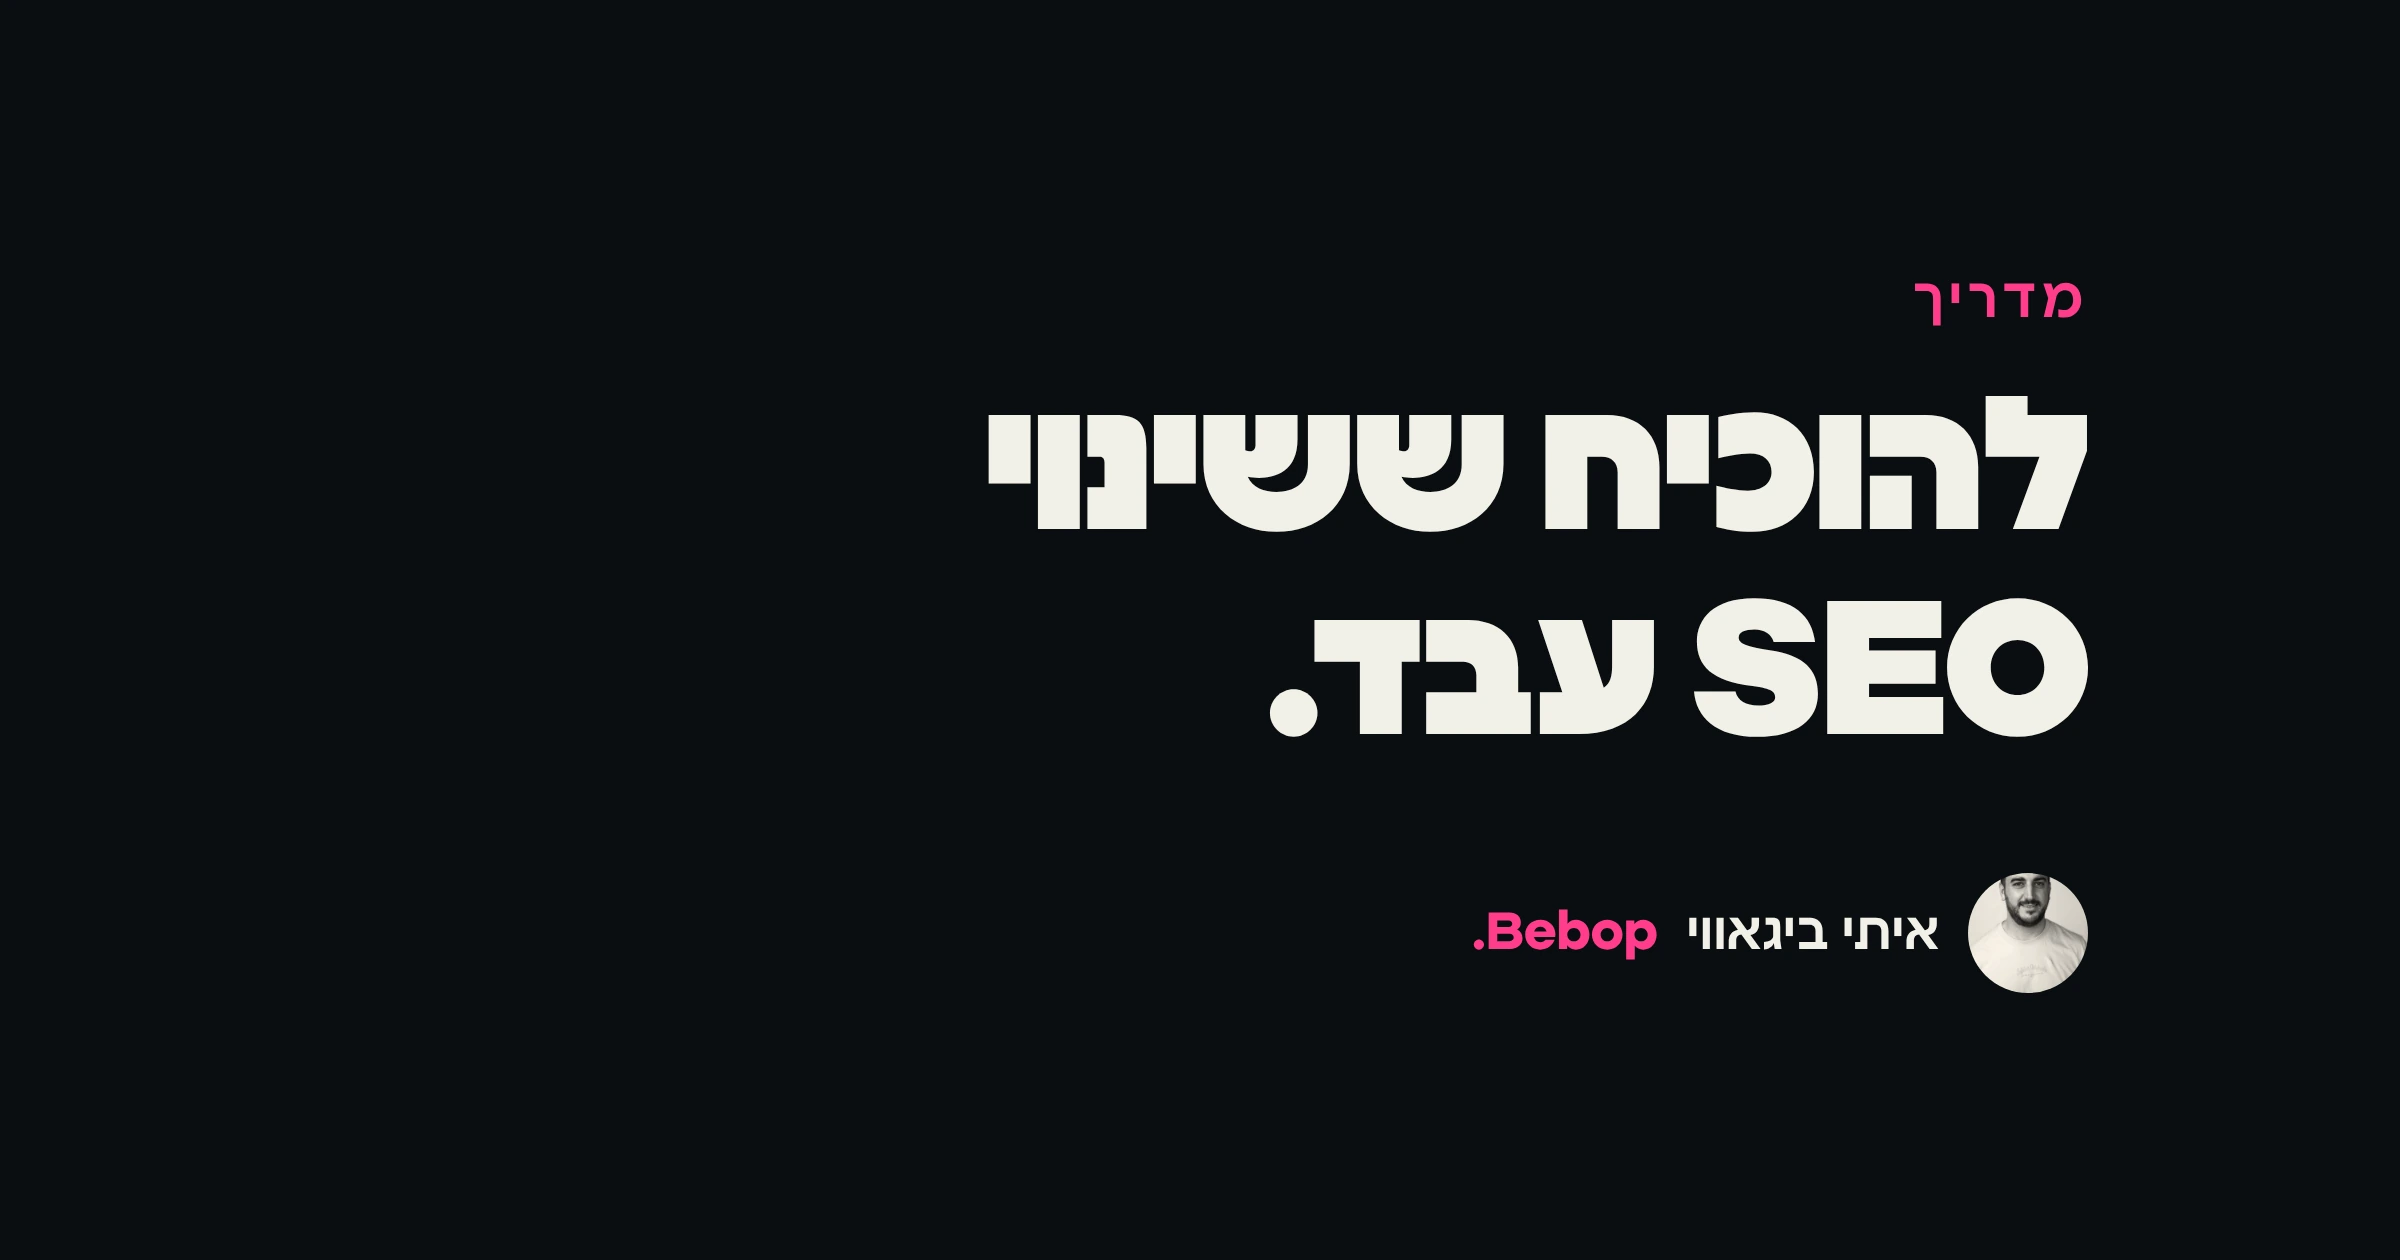
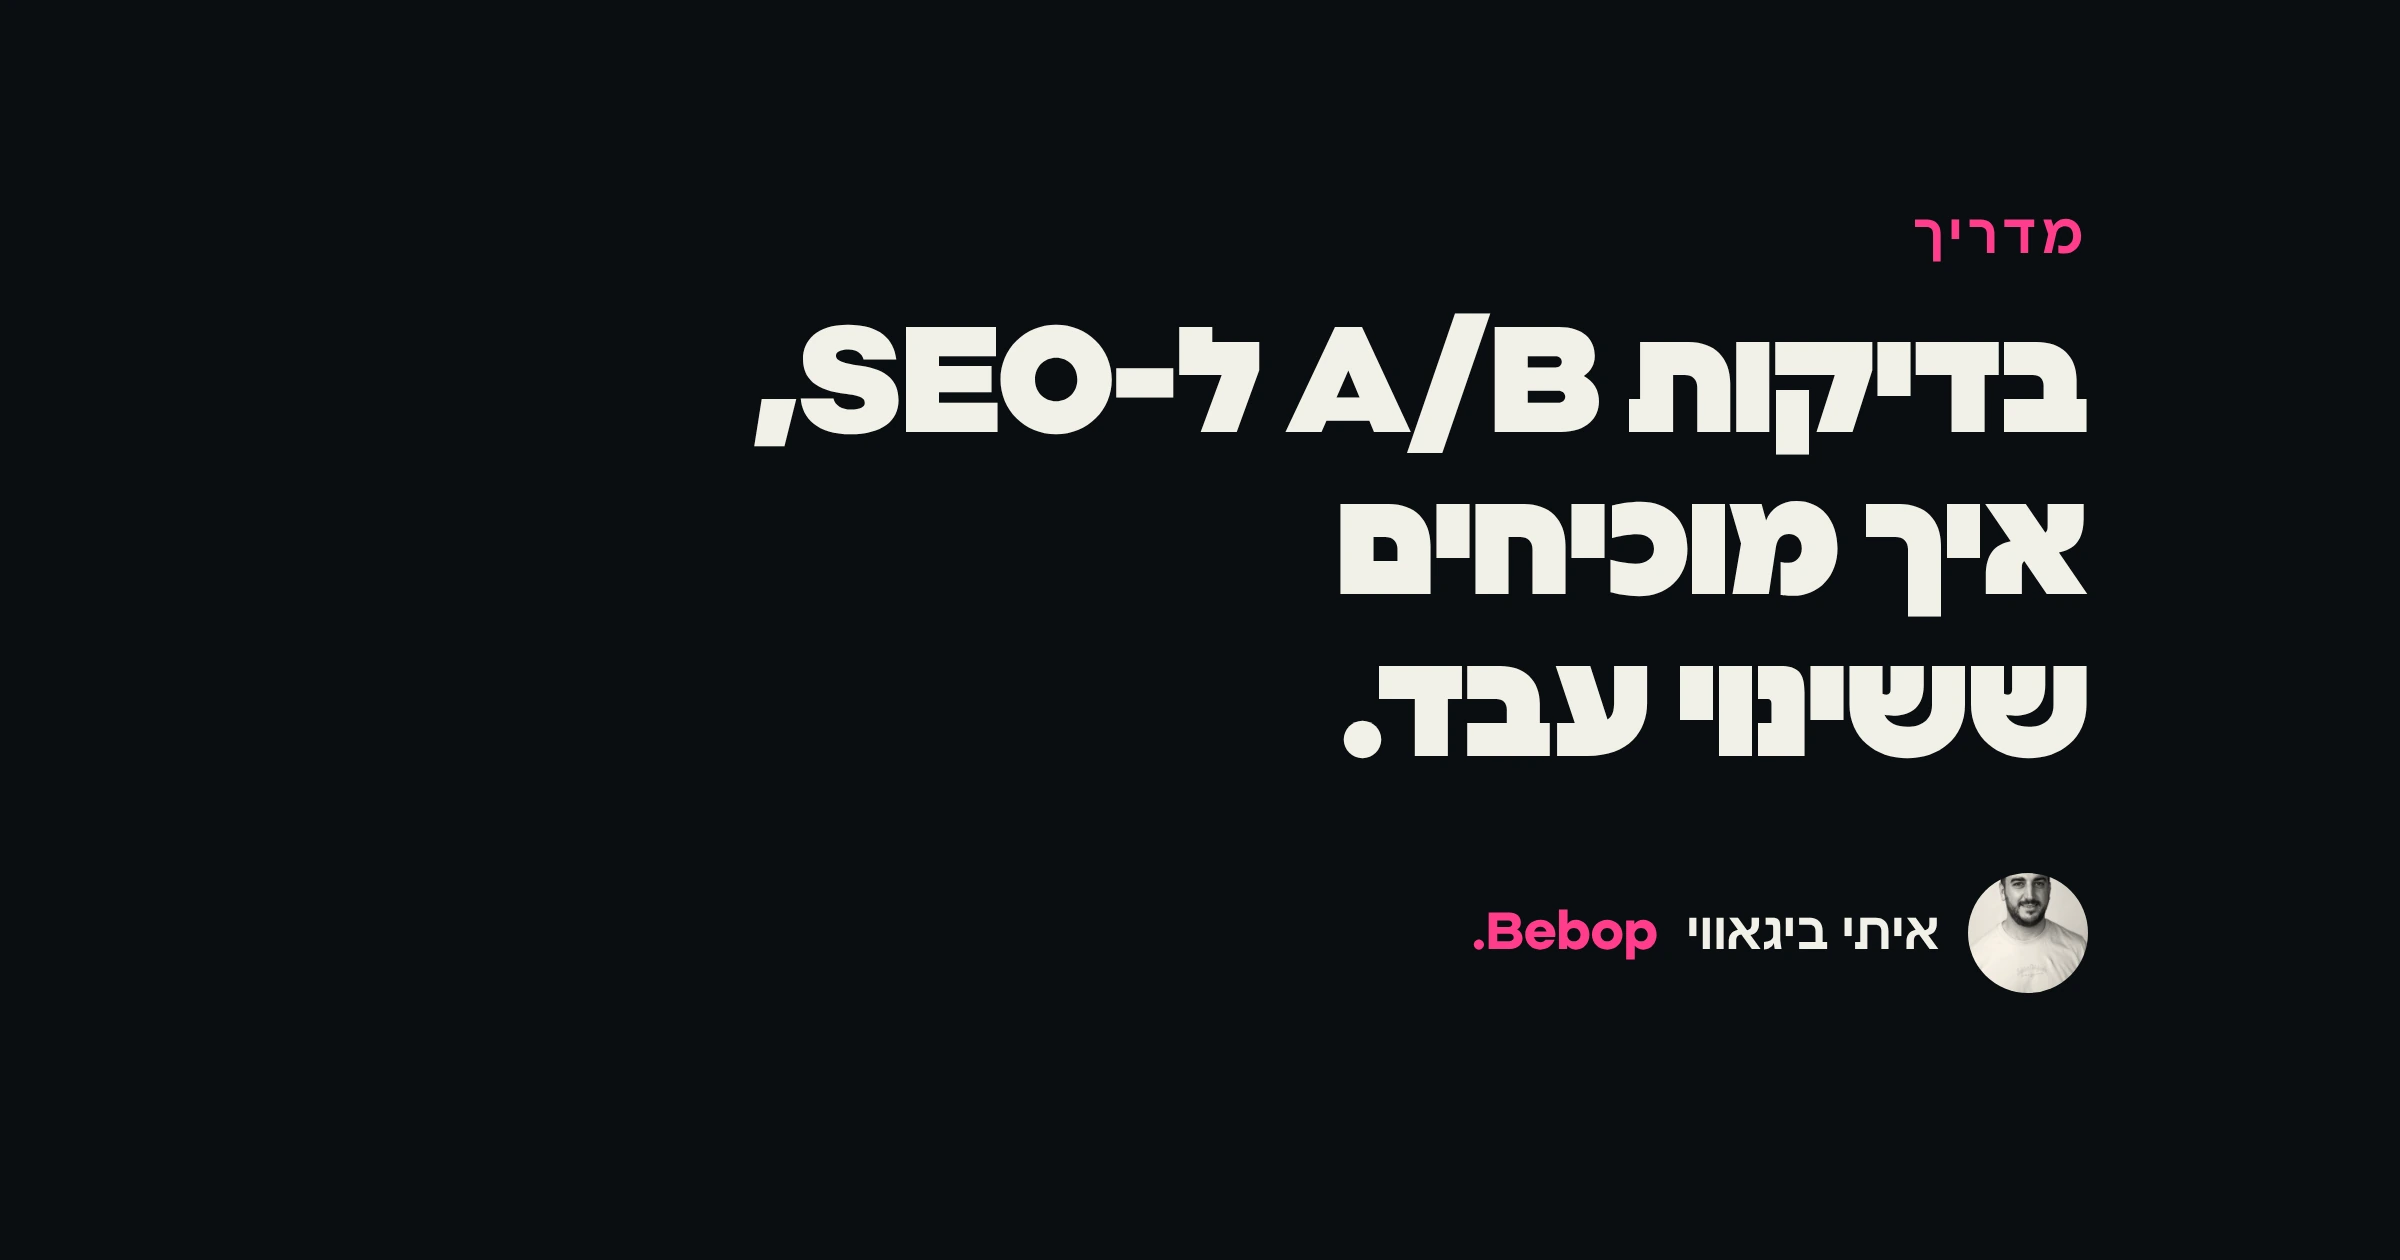
Rename the article to the approved title and rebuild the hero
The article is now titled as an SEO A/B testing guide for 2027. The
hero title card, OG image, alt text, Rank Math title and focus keyword
follow the new title, and the intro ties the A/B term to split testing
so the body stays consistent with it.

Claude-Session: https://claude.ai/code/session_01XxQQK9KzeG4kSDzRDdzX3V

Changed region(s): [[0.3125, 0.1548, 0.875, 0.619]]

diff --git a/output/bebop-articles/seo-split-testing/wp-content.html b/output/bebop-articles/seo-split-testing/wp-content.html
@@ -8,7 +8,7 @@
 <li>גרף של לפני ואחרי מראה שמשהו השתנה, לא מה גרם לשינוי. השאלה הנכונה היא בכמה התנועה עלתה מעבר למה שהיה קורה בלי השינוי.</li>
 <!-- /wp:list-item -->
 <!-- wp:list-item -->
-<li>בדיקת ספליט ב-SEO מחלקת עמודים ולא גולשים. חלק מהעמודים באותה תבנית מקבלים את השינוי, והשאר נשארים כקבוצת ביקורת.</li>
+<li>בדיקת A/B ל-SEO, או בדיקת ספליט, מחלקת עמודים ולא גולשים. חלק מהעמודים באותה תבנית מקבלים את השינוי, והשאר נשארים כקבוצת ביקורת.</li>
 <!-- /wp:list-item -->
 <!-- wp:list-item -->
 <li>לפני שמתחילים כותבים דף אחד עם השערה, מדד ראשי, מדדי מגן, תאריך ניתוח וכלל החלטה.</li>
@@ -27,7 +27,7 @@
 <!-- /wp:paragraph -->
 
 <!-- wp:paragraph -->
-<p>בדיקת ספליט ב-SEO (SEO Split Testing) נועדה בדיוק לזה, והיא אחד הכלים שהופכים <a href="/services/seo">קידום אורגני</a> לערוץ שאפשר למדוד. במדריך נעבור על מה נחשב הוכחה, איך הבדיקה עובדת, איזו שיטה מתאימה לגודל האתר שלכם ואיך מציגים תוצאה שגם סמנכ"ל כספים יקבל. הבסיס הוא <a href="https://www.searchenginejournal.com/seo-split-testing-prove-change-worked/594529/" rel="nofollow noopener" target="_blank">מאמר של סופי ברנון ב-Search Engine Journal</a>, שותפה-מייסדת בסוכנות StudioHawk US, שעיבדנו לעברית ובדקנו מול המקורות של גוגל.</p>
+<p>בדיקת A/B ל-SEO, שנקראת גם בדיקת ספליט (SEO Split Testing), נועדה בדיוק לזה, והיא אחד הכלים שהופכים <a href="/services/seo">קידום אורגני</a> לערוץ שאפשר למדוד. במדריך נעבור על מה נחשב הוכחה, איך הבדיקה עובדת, איזו שיטה מתאימה לגודל האתר שלכם ואיך מציגים תוצאה שגם סמנכ"ל כספים יקבל. הבסיס הוא <a href="https://www.searchenginejournal.com/seo-split-testing-prove-change-worked/594529/" rel="nofollow noopener" target="_blank">מאמר של סופי ברנון ב-Search Engine Journal</a>, שותפה-מייסדת בסוכנות StudioHawk US, שעיבדנו לעברית ובדקנו מול המקורות של גוגל.</p>
 <!-- /wp:paragraph -->
 
 <!-- wp:heading -->
@@ -152,7 +152,7 @@
 <!-- /wp:heading -->
 
 <!-- wp:paragraph -->
-<p>בדיקת ספליט ב-SEO מחלקת עמודים במקום אנשים. מבלבלים אותה לעיתים קרובות עם בדיקות A/B של אופטימיזציית המרות (CRO), שמחלקות גולשים בין שתי גרסאות של אותו עמוד, אבל ב-SEO זה לא עובד.</p>
+<p>בדיקת ספליט ב-SEO מחלקת עמודים במקום אנשים. מבלבלים אותה לעיתים קרובות עם בדיקות A/B רגילות של אופטימיזציית המרות (CRO), שמחלקות גולשים בין שתי גרסאות של אותו עמוד, אבל ב-SEO זה לא עובד.</p>
 <!-- /wp:paragraph -->
 
 <!-- wp:paragraph -->

diff --git a/output/bebop-articles/seo-split-testing/article.md b/output/bebop-articles/seo-split-testing/article.md
@@ -1,15 +1,15 @@
-# בדיקות ספליט ב-SEO, איך מוכיחים ששינוי באתר באמת עבד
+# בדיקות A/B ל-SEO ב-2027, איך מוכיחים ששינוי באמת עבד
 
-![כרטיס כותרת של המאמר, להוכיח ששינוי SEO עבד, מאת איתי ביגאווי](./hero.png)
+![כרטיס כותרת של המאמר, בדיקות A/B ל-SEO, איך מוכיחים ששינוי עבד, מאת איתי ביגאווי](./hero.png)
 
 שיניתם את הכותרות בעמודי המוצר במרץ, באפריל ההקלקות עלו, וכולם בחדר הנהנו. ואז מישהו מההנהלה שאל איך אתם יודעים שזה לא פשוט גוגל. גרף של לפני ואחרי לא עונה על השאלה הזאת, כי עדכוני ליבה, עונתיות ותשובות ה-AI של גוגל מזיזים את התנועה גם כשאף אחד לא נוגע באתר.
 
-בדיקת ספליט ב-SEO (SEO Split Testing) נועדה בדיוק לזה, והיא אחד הכלים שהופכים [קידום אורגני](/services/seo) לערוץ שאפשר למדוד. במדריך נעבור על מה נחשב הוכחה, איך הבדיקה עובדת, איזו שיטה מתאימה לגודל האתר שלכם ואיך מציגים תוצאה שגם סמנכ"ל כספים יקבל. הבסיס הוא [מאמר של סופי ברנון ב-Search Engine Journal](https://www.searchenginejournal.com/seo-split-testing-prove-change-worked/594529/), שותפה-מייסדת בסוכנות StudioHawk US, שעיבדנו לעברית ובדקנו מול המקורות של גוגל.
+בדיקת A/B ל-SEO, שנקראת גם בדיקת ספליט (SEO Split Testing), נועדה בדיוק לזה, והיא אחד הכלים שהופכים [קידום אורגני](/services/seo) לערוץ שאפשר למדוד. במדריך נעבור על מה נחשב הוכחה, איך הבדיקה עובדת, איזו שיטה מתאימה לגודל האתר שלכם ואיך מציגים תוצאה שגם סמנכ"ל כספים יקבל. הבסיס הוא [מאמר של סופי ברנון ב-Search Engine Journal](https://www.searchenginejournal.com/seo-split-testing-prove-change-worked/594529/), שותפה-מייסדת בסוכנות StudioHawk US, שעיבדנו לעברית ובדקנו מול המקורות של גוגל.
 
 ## בקצרה — הנקודות החשובות
 
 - גרף של לפני ואחרי מראה שמשהו השתנה, לא מה גרם לשינוי. השאלה הנכונה היא בכמה התנועה עלתה מעבר למה שהיה קורה בלי השינוי.
-- בדיקת ספליט ב-SEO מחלקת עמודים ולא גולשים. חלק מהעמודים באותה תבנית מקבלים את השינוי, והשאר נשארים כקבוצת ביקורת.
+- בדיקת A/B ל-SEO, או בדיקת ספליט, מחלקת עמודים ולא גולשים. חלק מהעמודים באותה תבנית מקבלים את השינוי, והשאר נשארים כקבוצת ביקורת.
 - לפני שמתחילים כותבים דף אחד עם השערה, מדד ראשי, מדדי מגן, תאריך ניתוח וכלל החלטה.
 - לפי SearchPilot, בדיקה קלאסית דורשת כ-1,000 כניסות אורגניות ביום לאזור הנבדק. באתר קטן יותר מחזקים השוואת לפני ואחרי בעזרת קבוצת עמודים שלא נוגעים בה.
 - מדווחים טווח ולא מספר בודד, מחברים להכנסות או ללידים, ומדווחים גם על הבדיקות שלא הצליחו.
@@ -66,7 +66,7 @@
 
 ## איך בדיקת ספליט ב-SEO עובדת?
 
-בדיקת ספליט ב-SEO מחלקת עמודים במקום אנשים. מבלבלים אותה לעיתים קרובות עם בדיקות A/B של אופטימיזציית המרות (CRO), שמחלקות גולשים בין שתי גרסאות של אותו עמוד, אבל ב-SEO זה לא עובד.
+בדיקת ספליט ב-SEO מחלקת עמודים במקום אנשים. מבלבלים אותה לעיתים קרובות עם בדיקות A/B רגילות של אופטימיזציית המרות (CRO), שמחלקות גולשים בין שתי גרסאות של אותו עמוד, אבל ב-SEO זה לא עובד.
 
 גוגל מדרגת גרסה אחת של כל כתובת, ולכן חלוקת גולשים לא יכולה להראות איך שינוי משפיע על דירוג או על הקלקות מהחיפוש. ולהציג לגוגלבוט עמוד אחד ולגולשים עמוד אחר זה cloaking (הסוואה). [ההנחיות של גוגל לבדיקות באתר](https://developers.google.com/search/docs/crawling-indexing/website-testing) קובעות שהסוואה מנוגדת למדיניות הספאם "בין אם אתם מריצים בדיקה ובין אם לא".
 
